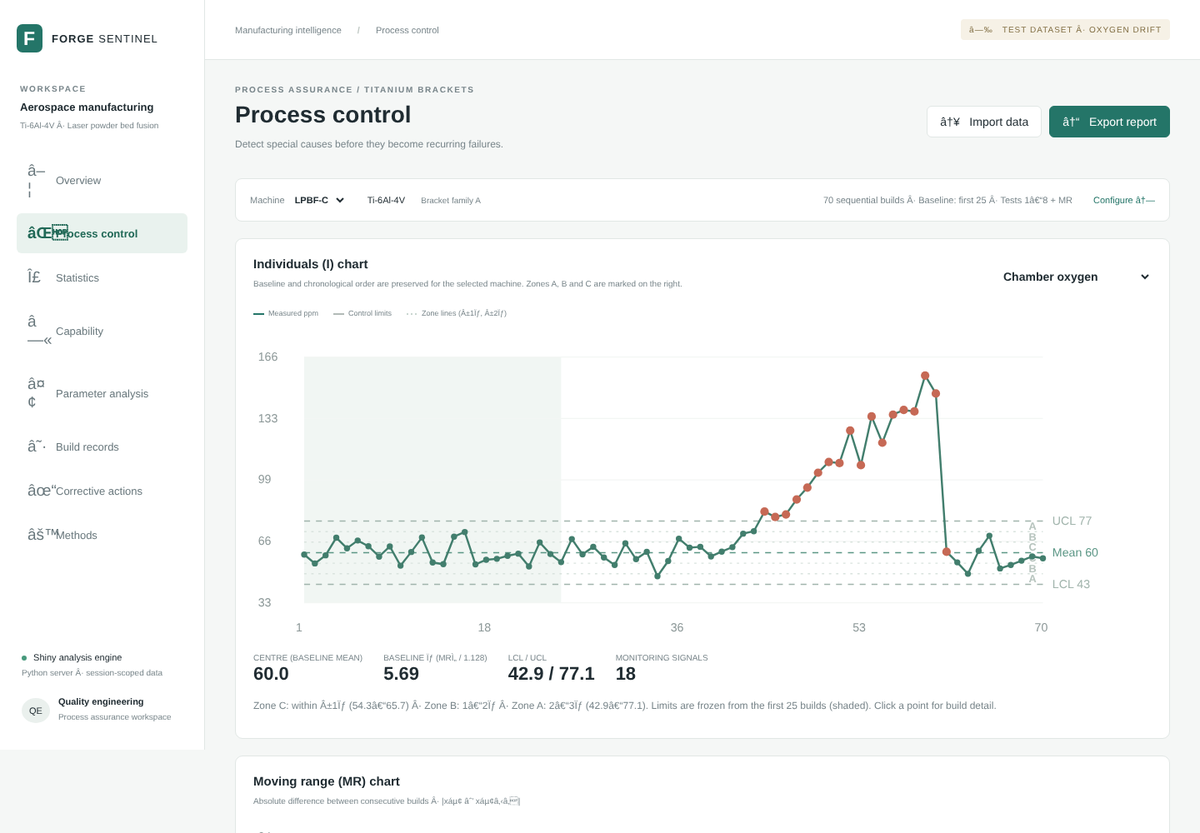
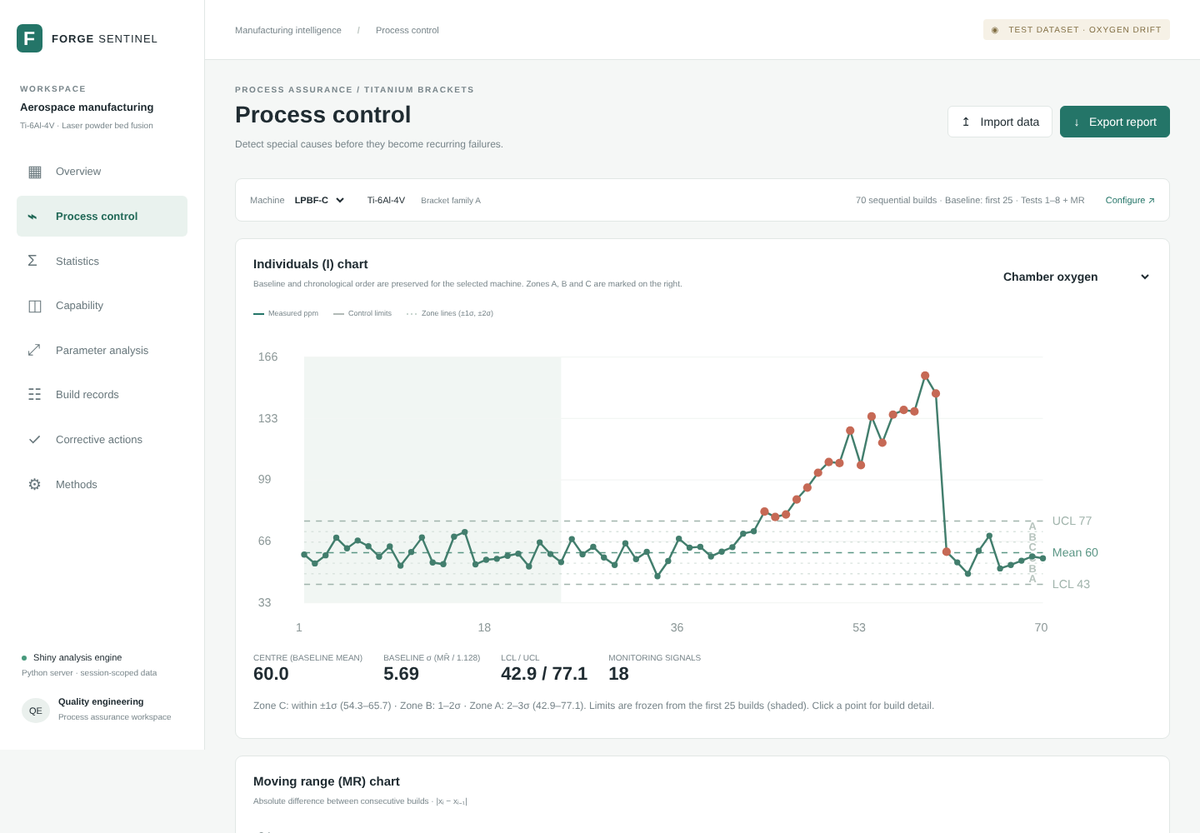
Export report: single dialog with PDF, Excel and JSON options

diff --git a/www/style.css b/www/style.css
@@ -896,3 +896,19 @@ grid-template-columns: 1fr;
 .modal-content .shiny-input-checkboxgroup > label { font-size: 11px; color: #68777c; margin-top: 4px; }
 #fs .heading .actions a.small { padding: 10px 12px; font-size: 13px; color: var(--muted); }
 .modal-content .actions { gap: 8px; flex-wrap: wrap; }
+/* ---- export dialog ---- */
+.modal-content .export-options { display: grid; gap: 10px; margin: 14px 0 6px; }
+.modal-content .export-option {
+  display: flex; gap: 14px; align-items: center; width: 100%; text-align: left; text-decoration: none;
+  border: 1px solid var(--line); background: #fff; color: var(--ink); border-radius: 8px; padding: 14px 16px;
+  cursor: pointer; font: inherit;
+}
+.modal-content .export-option:hover { border-color: var(--green); background: #f3f8f6; }
+.modal-content .export-option .ico {
+  flex: 0 0 52px; height: 40px; border-radius: 6px; background: #e9f2ee; color: #216957;
+  font: 700 11px Manrope, Arial, sans-serif; letter-spacing: .5px; display: flex; align-items: center; justify-content: center;
+}
+.modal-content .export-option .txt { display: grid; gap: 2px; }
+.modal-content .export-option .txt b { font-size: 14px; }
+.modal-content .export-option .txt span { font-size: 12px; color: var(--muted); line-height: 1.5; }
+.modal-content .note { font-size: 12px; color: #855e36; }

diff --git a/forge_sentinel/views.py b/forge_sentinel/views.py
@@ -60,13 +60,37 @@ def heading(page: str) -> str:
     return (f'<div class="heading"><div><div class="eyebrow">PROCESS ASSURANCE / TITANIUM BRACKETS</div>'
             f'<h1>{title}</h1><p>{TAGLINES[page]}</p></div><div class="actions">'
             f'<button onclick="fsOpen(\'import\')">↥ &nbsp; Import data</button>'
-            f'<a id="export_report" class="shiny-download-link primary" href="" target="_blank" download '
-            f'title="Printable report (open, then Print → Save as PDF)">↓ &nbsp; Export report</a>'
-            f'<a id="export_excel" class="shiny-download-link small" href="" target="_blank" download '
-            f'title="Excel workbook: summary, chart, data, statistics, signals">Excel</a>'
-            f'<a id="export_json" class="shiny-download-link small" href="" target="_blank" download '
-            f'title="Machine-readable JSON">JSON</a>'
+            f'<button class="primary" onclick="fsOpen(\'export\')">↓ &nbsp; Export report</button>'
             f'</div></div>')
+
+
+def export_dialog(machine: str, n: int) -> str:
+    """Body of the Export report dialog: choose PDF, Excel or JSON.
+
+    Excel and JSON are Shiny download links. PDF opens the printable report in a new tab and starts the
+    browser's print dialog (choose "Save as PDF"); see fsPrintReport() in app.py. The hidden
+    export_report link supplies the report and is also the fallback if pop-ups are blocked."""
+    def option(tag_open, icon, title, desc, tag_close):
+        return (f'{tag_open}<span class="ico">{icon}</span><span class="txt"><b>{title}</b>'
+                f'<span>{desc}</span></span>{tag_close}')
+    close_soon = "setTimeout(function(){fsEvt('close_modal')},400)"
+    return (f'<h2>Export report</h2><p>Machine <b>{esc(machine)}</b> · {n} builds · current settings. '
+            'Choose a format:</p><div class="export-options">'
+            + option('<button type="button" class="export-option" onclick="fsPrintReport()">', "PDF",
+                     "PDF report",
+                     "A printable 5-page summary with charts. It opens in a new tab with your browser's print "
+                     "dialog; choose <i>Save as PDF</i>.", "</button>")
+            + option(f'<a id="export_excel" class="shiny-download-link export-option" href="" target="_blank" download '
+                     f'onclick="{close_soon}">', "XLSX", "Excel workbook",
+                     "Summary with a control chart, full data with limits and pass/fail, statistics, capability, "
+                     "signals, associations and corrective actions.", "</a>")
+            + option(f'<a id="export_json" class="shiny-download-link export-option" href="" target="_blank" download '
+                     f'onclick="{close_soon}">', "JSON", "JSON data",
+                     "The same results in machine-readable form, for archiving or other software.", "</a>")
+            + '</div><a id="export_report" class="shiny-download-link" href="" target="_blank" download '
+            'style="display:none">printable report</a>'
+            '<p class="note" id="fs-print-note" style="display:none">Your browser blocked the new tab, so the printable '
+            'report was downloaded instead. Open it and choose <b>Print → Save as PDF</b>.</p>')
 
 
 def tests_label(a: Analysis, mr_rule: bool) -> str:

diff --git a/app.py b/app.py
@@ -73,6 +73,27 @@ function fsMachine(m){ fsEvt('machine', m); }
 function fsMetric(m){ fsEvt('metric', m); }
 function fsOpen(w){ fsEvt('open', w); }
 function fsAction(id, key, value){ fsEvt('action', {id: id, key: key, value: value}); }
+// "PDF report": open a tab now (synchronously, so pop-up blockers allow it), fetch the printable
+// report from its Shiny download link, write it into the tab and open the print dialog.
+function fsPrintReport(){
+  var link = document.getElementById('export_report');
+  if (!link || !link.href || link.href === window.location.href) { return; }
+  var w = window.open('', '_blank');
+  if (!w) {                                   // pop-up blocked: download the HTML report instead
+    link.click();
+    var note = document.getElementById('fs-print-note'); if (note) note.style.display = 'block';
+    return;
+  }
+  w.document.write('<p style="font:14px sans-serif;padding:24px">Preparing report…</p>');
+  fetch(link.href, {credentials: 'same-origin'})
+    .then(function(r){ if (!r.ok) throw new Error(r.status); return r.text(); })
+    .then(function(html){
+      w.document.open(); w.document.write(html); w.document.close();
+      setTimeout(function(){ w.focus(); w.print(); }, 600);
+      fsEvt('close_modal');
+    })
+    .catch(function(){ w.close(); link.click(); });
+}
 """
 
 app_ui = ui.page_bootstrap(
@@ -199,6 +220,11 @@ def server(input, output, session):
             show_import()
         elif kind == "open" and value == "config":
             show_config()
+        elif kind == "open" and value == "export":
+            ui.modal_show(ui.modal(close_button(), ui.HTML(views.export_dialog(machine(), len(stream()))),
+                                   easy_close=True, footer=None))
+        elif kind == "close_modal":
+            ui.modal_remove()
         elif kind == "apply_config":
             apply_config()
         elif kind == "sample" and value in SAMPLES:

diff --git a/docs/REFERENCE.md b/docs/REFERENCE.md
@@ -245,10 +245,11 @@ variable to its `describe()` output. `build_detail(a, i)` builds the pop-up for 
 |---|---|
 | reactive state | `rows`, `source`, `page`, `machine`, `metric`, `cfg` (one copy per browser session) |
 | `stream()`, `a()`, `am()`, `avail()` | the selected machine's rows, the strength analysis, the selected-variable analysis, the recorded variables |
-| `input.fs_evt` | a single event channel: `nav`, `machine`, `metric`, `build`, `open`, `apply_config`, `sample`, `restore_demo`, `action` |
+| `input.fs_evt` | a single event channel: `nav`, `machine`, `metric`, `build`, `open` (`import`, `config` or `export` dialog), `apply_config`, `sample`, `restore_demo`, `action`, `close_modal` |
+| Export dialog | `views.export_dialog()` offers PDF, Excel and JSON. Excel and JSON are download links. **PDF** runs the `fsPrintReport()` JavaScript helper: it opens a new tab straight away (so pop-up blockers allow it), fetches the printable report from the hidden `export_report` download link, writes it into the tab and calls `print()`. If the tab is blocked, it downloads the HTML report and shows a note instead. |
 | `input.upload` | CSV or Excel upload → `read_upload` → replaces `rows` for this session |
 | `SAMPLES` | the three test datasets offered in the Import dialog |
-| downloads | `export_report` (printable HTML), `export_excel` (workbook), `export_json`, `download_csv`, `download_example` (CSV), `download_example_xlsx`, `download_source` (zip). Report file names include the machine and date. |
+| downloads | `export_report` (printable HTML, used by the PDF option), `export_excel` (workbook), `export_json`, `download_csv`, `download_example` (CSV), `download_example_xlsx`, `download_source` (zip). Report file names include the machine and date. |
 | `ActionStore` | corrective-action status and notes in `data/actions.json`; set the `FORGE_ACTIONS_FILE` environment variable to store them elsewhere |
 
 **Configure dialog parameters**

diff --git a/README.md b/README.md
@@ -91,12 +91,14 @@ Other controls:
 - **Configure**: change the spec limits (LSL/USL), Cpk target, baseline size and alarm thresholds, and
   choose which of the 8 tests (and the moving-range rule) to apply.
 - **Import data**: upload your own CSV or Excel file (format below), or load one of the three test datasets.
-- **Export report**: downloads a **printable report** (HTML). Open it in any browser and use **Print → Save as PDF**
-  for a 5-page summary: verdict, key numbers, I-MR charts, the 8 tests, capability, likely causes, statistics and
-  corrective-action status.
-- **Excel**: downloads a formatted **workbook** with a Summary sheet (including a native control chart), the
-  full data with control limits and pass/fail, statistics, capability, signals, associations and corrective actions.
-- **JSON**: the same results in machine-readable form, for archiving or other software.
+- **Export report**: opens a dialog where you choose the format, for the selected machine and current settings:
+  - **PDF report**: a printable 5-page summary covering the verdict, key numbers, I-MR charts, the 8 tests,
+    capability, likely causes, statistics and corrective-action status. It opens in a new tab with your browser's
+    print dialog; choose **Save as PDF**. If your browser blocks the new tab, the report downloads as an HTML file
+    instead, which you open and print the same way.
+  - **Excel workbook**: a Summary sheet with a native control chart, the full data with control limits and
+    pass/fail, statistics, capability, signals, associations and corrective actions.
+  - **JSON data**: the same results in machine-readable form, for archiving or other software.
 - **Click any point on a chart** to see that build's details.
 
 ---

diff --git a/DEMO.md b/DEMO.md
@@ -109,7 +109,11 @@ records status and notes there.
 
 ### Step 5 — Share the findings
 
-**Export report** downloads a printable report. Open it in a browser and choose **Print → Save as PDF** to
+Click **Export report** and choose a format:
+
+![The Export report dialog](docs/images/12_export_dialog.png)
+
+**PDF report** opens the printable report in a new tab with the print dialog. Choose **Save as PDF** to
 get a 5-page summary to send to the client or a manager.
 
 ![Page 1 of the printable report](docs/images/10_report_page1.png)
@@ -122,9 +126,9 @@ link to strength, so chamber oxygen comes first, flagged 5 builds before strengt
 
 The report ends with descriptive statistics, corrective-action status and notes, and the method and limitations.
 
-**Excel** downloads the same results as a workbook: a Summary sheet with a native Excel control chart, the full
+**Excel workbook** downloads the same results as a workbook: a Summary sheet with a native Excel control chart, the full
 build data with control limits and PASS/FAIL (failures shaded, filters on), and sheets for statistics,
-capability, signals, associations and corrective actions. **JSON** gives the same results in machine-readable form.
+capability, signals, associations and corrective actions. **JSON data** gives the same results in machine-readable form.
 
 **What actually happened** (from the dataset design): a chamber seal began leaking at build 41 and was
 replaced after build 60. The tool found the change, its timing and its cause from the data alone.
